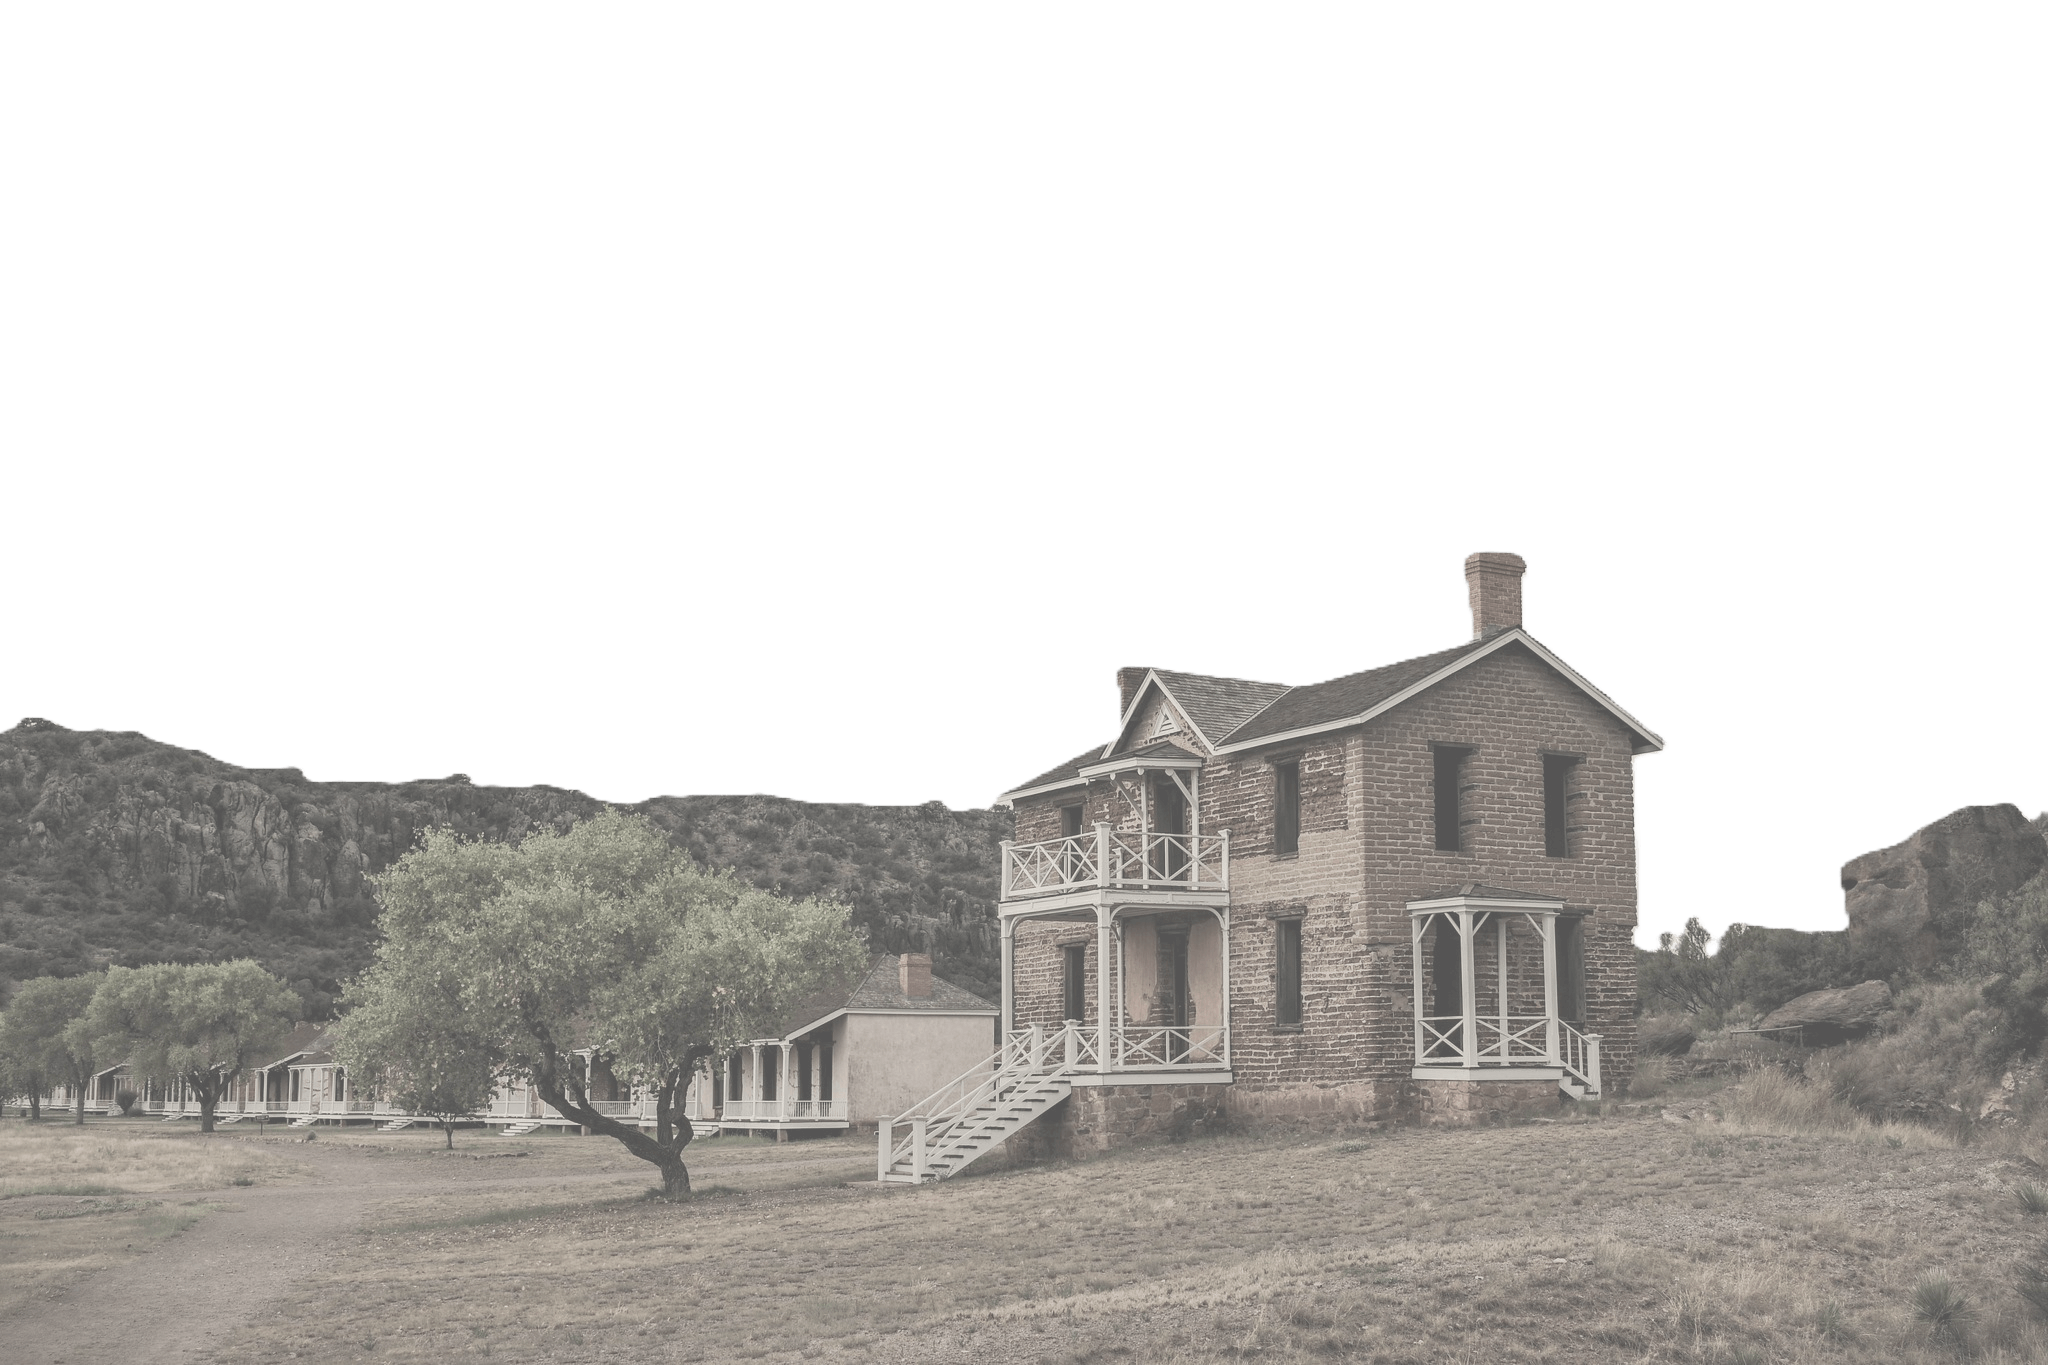
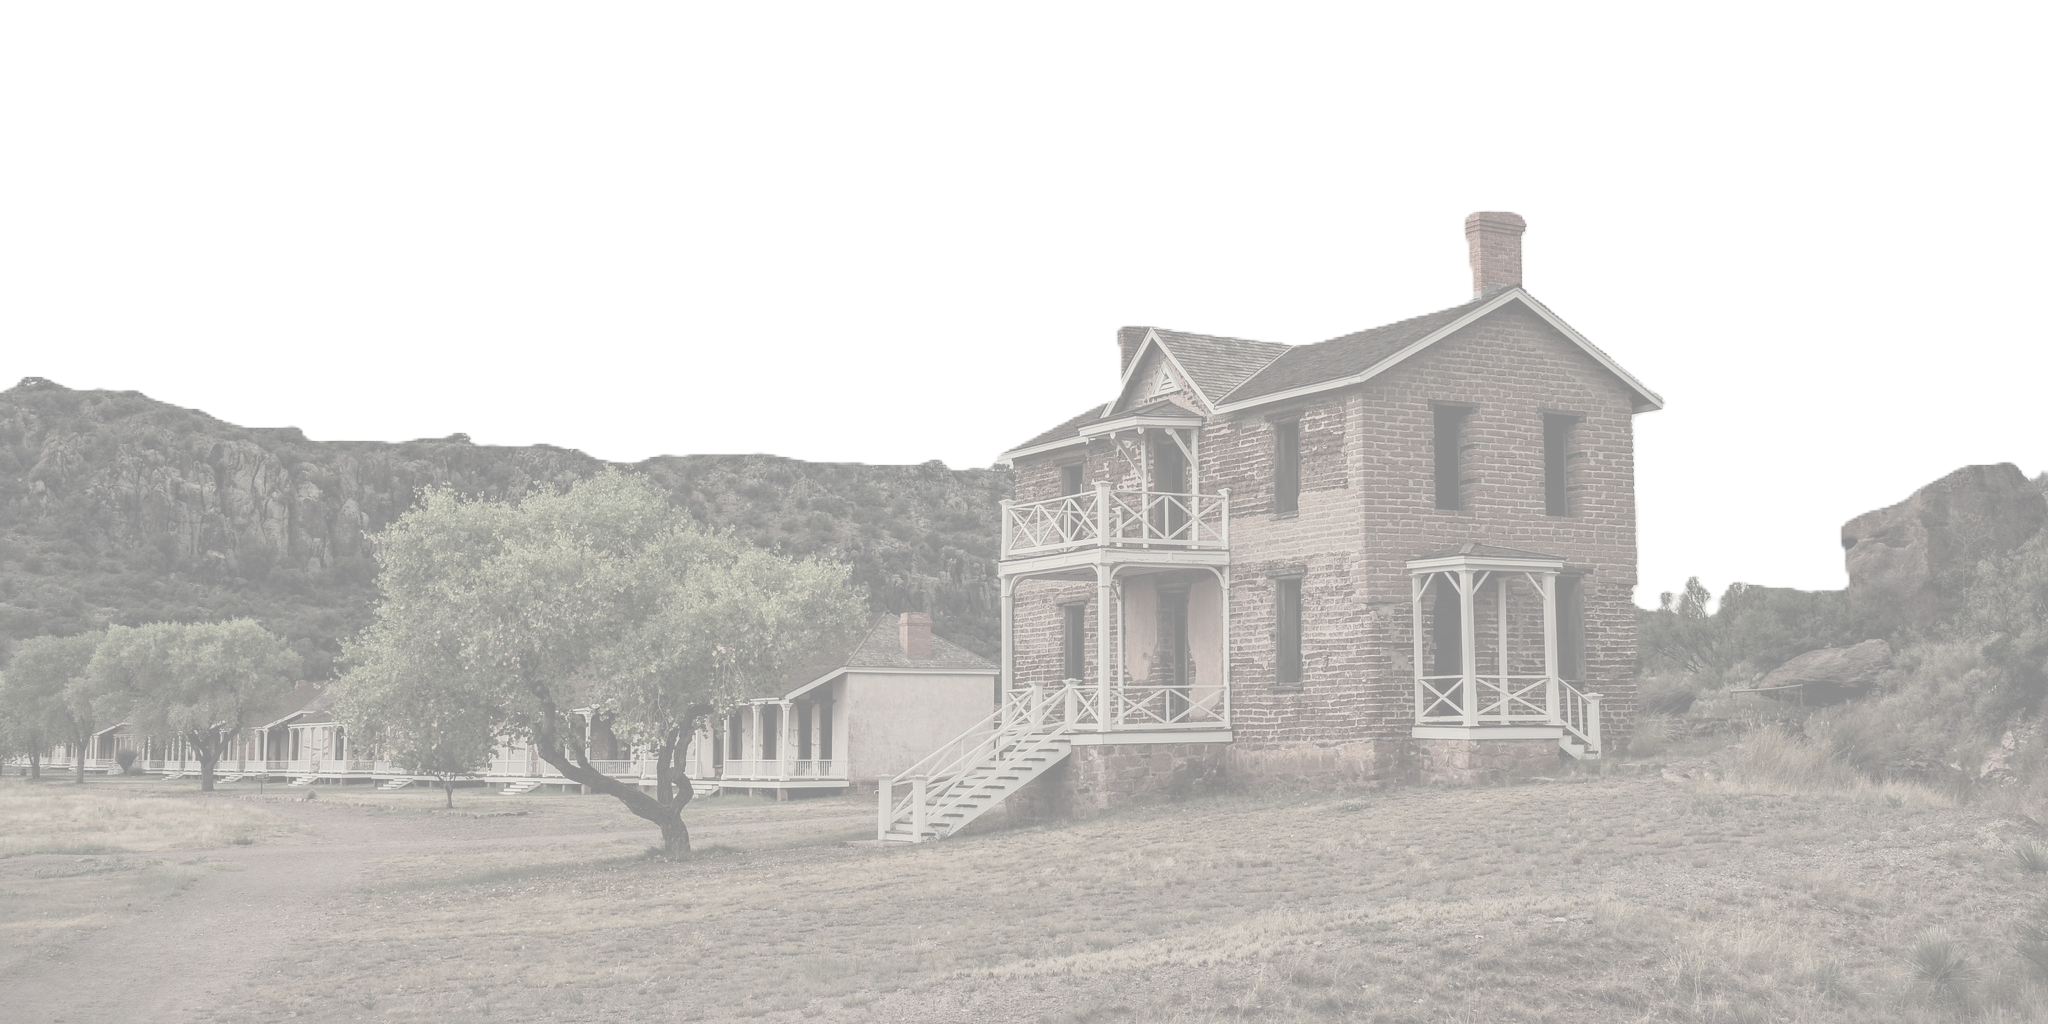
changed picture size

diff --git a/index.html b/index.html
@@ -8,7 +8,7 @@
   <!-- Bootstrap CSS -->
   <link href="https://cdn.jsdelivr.net/npm/bootstrap@5.3.3/dist/css/bootstrap.min.css" rel="stylesheet"
     integrity="sha384-QWTKZyjpPEjISv5WaRU9OFeRpok6YctnYmDr5pNlyT2bRjXh0JMhjY6hW+ALEwIH" crossorigin="anonymous">
-    <link rel="stylesheet" href="/CSS/styles.css">
+  <link rel="stylesheet" href="/CSS/styles.css">
 </head>
 
 <body>
@@ -45,7 +45,7 @@
     </div>
     <div class="carousel-inner">
       <div class="carousel-item active">
-        <img 
+        <img
           src="https://www.visitarizona.com/imager/s3_us-west-1_amazonaws_com/aot-2020/images/TontoMonument_ResizedHeader_b2b0b89039603b931027eb2900b66531.jpg"
           class="d-block w-100" alt="Tonto National Monument">
         <div class="carousel-caption d-none d-md-block">
@@ -56,7 +56,7 @@
         </div>
       </div>
       <div class="carousel-item">
-        <img 
+        <img
           src="https://cdn.aarp.net/content/aarpe/en/home/travel/vacation-ideas/outdoors/info-2023/canyonlands-national-park/_jcr_content/root/container_main/container_body_main/container_image/articlecontentfragme/cfimage.coreimg.75.1440.jpeg/content/dam/aarp/travel/national-parks/2023/10/1140-mesa-arch-sunrise-canyonlands-utah.jpg"
           class="d-block w-100" alt="Canyonlands National Park">
         <div class="carousel-caption d-none d-md-block">
@@ -66,9 +66,8 @@
             formations carved by the Colorado River and its tributaries.</p>
         </div>
       </div>
-      <div class="carousel-item" >
-        <img 
-          src="https://npca.s3.amazonaws.com/images/9095/fa91bcf8-4455-4554-843b-b9eedad5a2ab-banner.jpg"
+      <div class="carousel-item">
+        <img src="https://npca.s3.amazonaws.com/images/9095/fa91bcf8-4455-4554-843b-b9eedad5a2ab-banner.jpg"
           class="d-block w-100" alt="San Antonio Missions National Historical Park">
         <div class="carousel-caption d-none d-md-block">
           <h5 class="fs-2 fw-bolder">San Antonio Missions National Historical Park</h5>
@@ -99,8 +98,8 @@
               <p class="text-center card-text">Visit our National Parks search page to find the park that is just right
                 for you!</p>
             </div>
-            <div class="d-flex justify-content-center card-footer"><a role="button" tabindex="0" href="national_parks.html"
-                class="btn btn-secondary">National Parks Search</a></div>
+            <div class="d-flex justify-content-center card-footer"><a role="button" tabindex="0"
+                href="national_parks.html" class="btn btn-secondary">National Parks Search</a></div>
           </div>
         </div>
         <div class="col">
@@ -116,6 +115,11 @@
         </div>
       </div>
     </div>
+  </div>
+<!-- this is my footer -->
+  <div class="Footer">
+    <nav data-bs-theme="dark" class="navbar navbar-expand navbar-light bg-dark"><span class="fw-bold navbar-text">© 2024
+        - Enjoy The Outdoors</span></nav>
   </div>
 
   <!-- Bootstrap JavaScript -->

diff --git a/CSS/nationalParkBG.css b/CSS/nationalParkBG.css
@@ -1,9 +1,9 @@
 body {
 
-    background-image: url(/images/customimg/42044101450_57be167766_k.png);
+    background-image: url(/images/customimg/asdasdasdasdasd.png);
     height: 100% ;
     background-repeat: no-repeat;
-    background-position: center;
+    
 }
 
 /* #custom-background {
